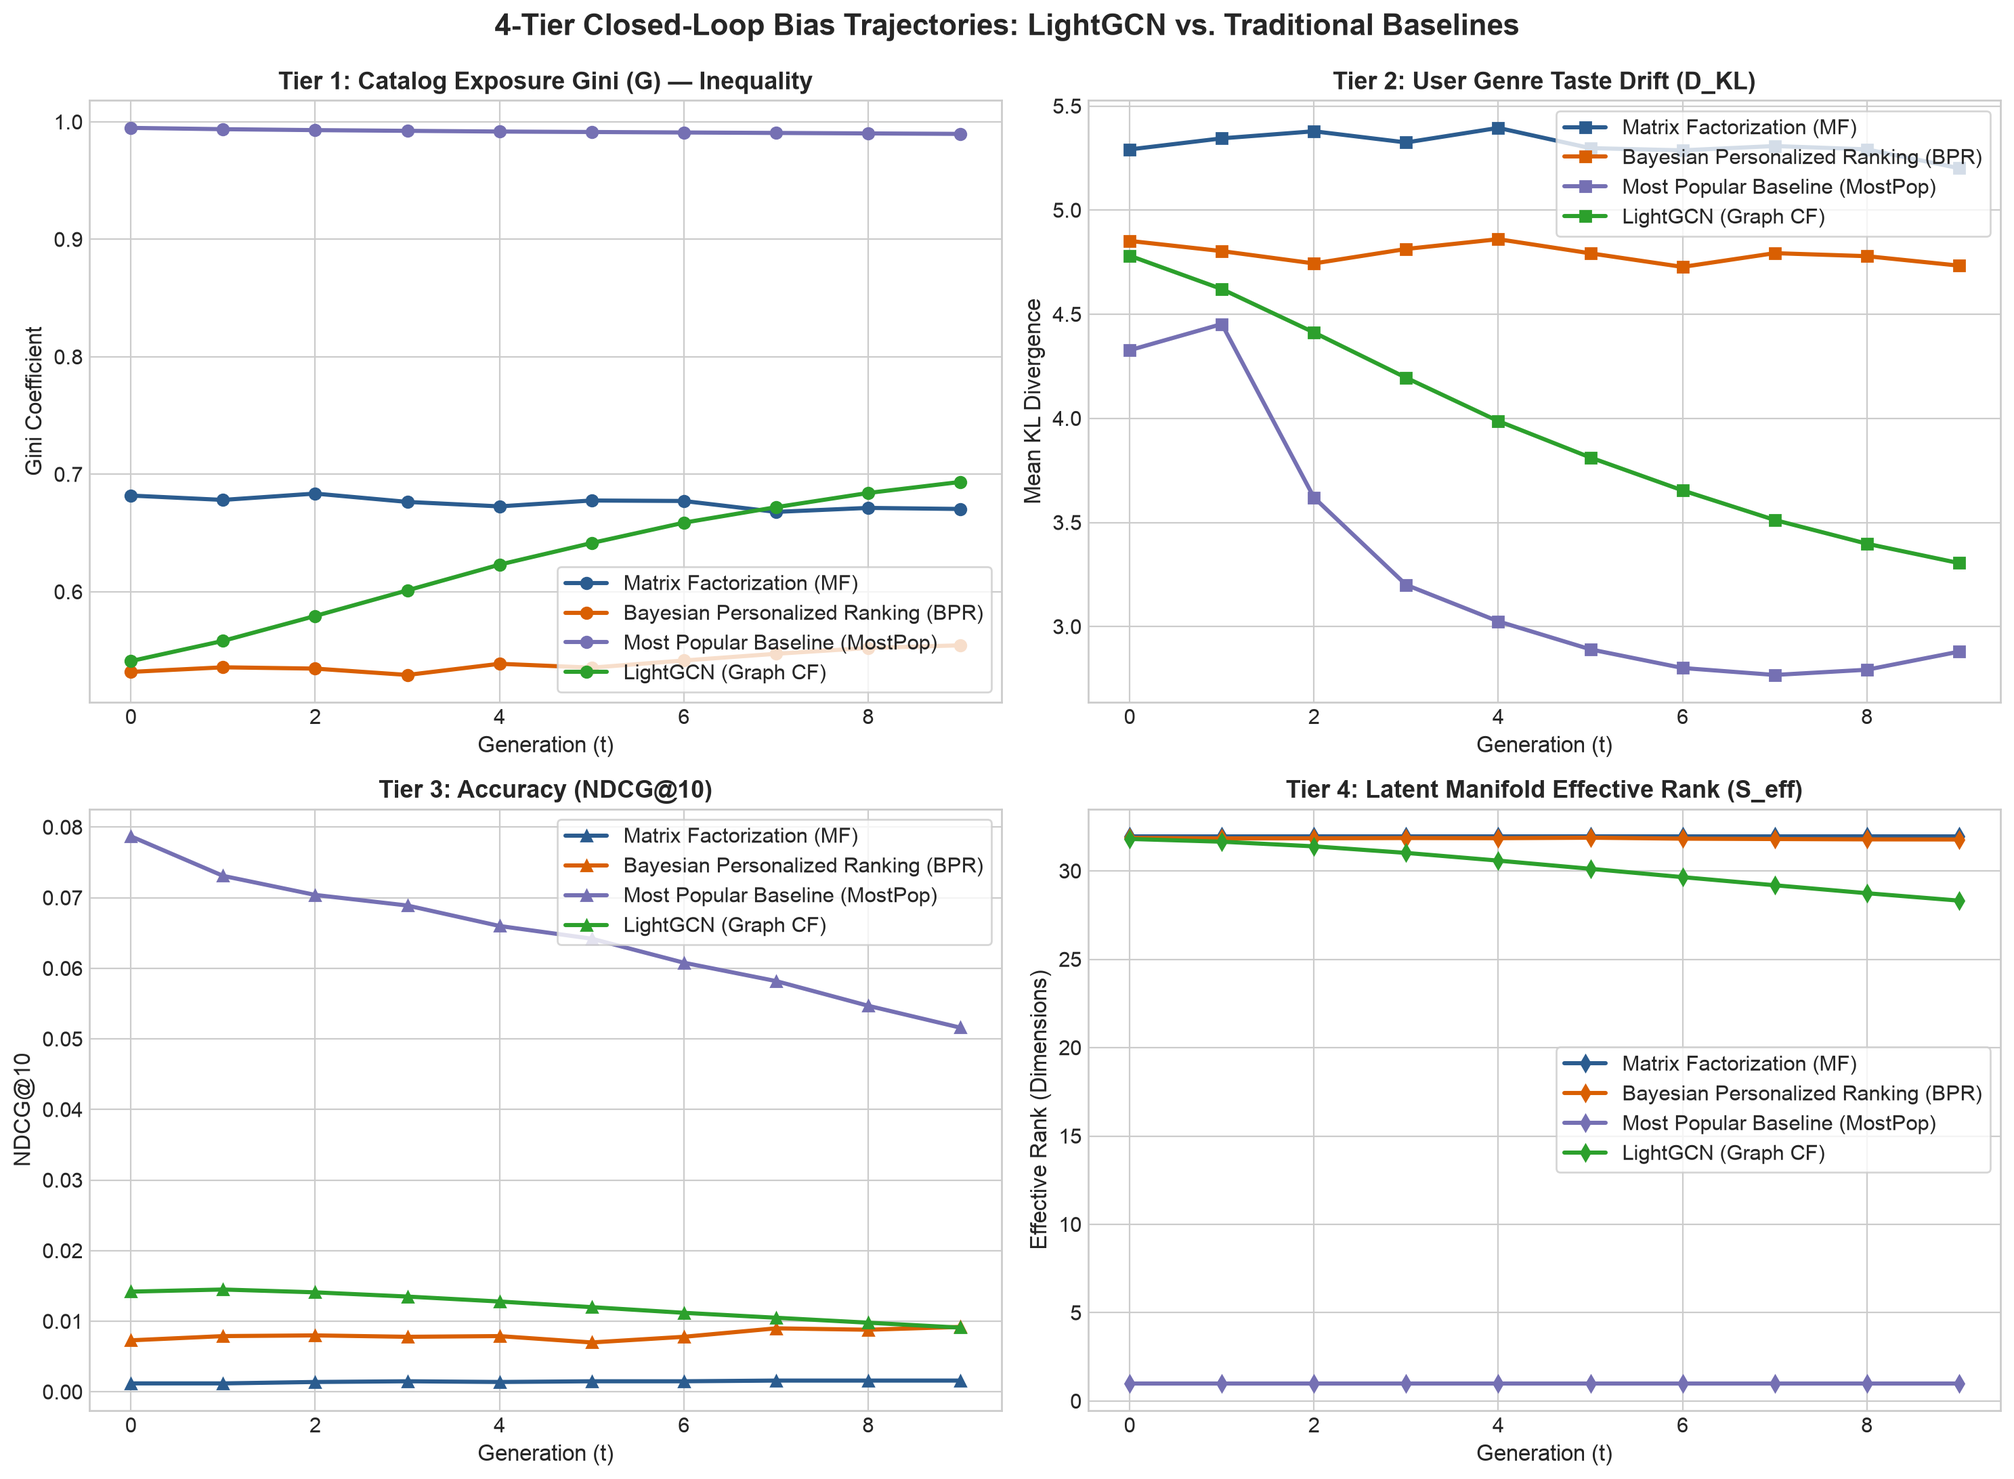
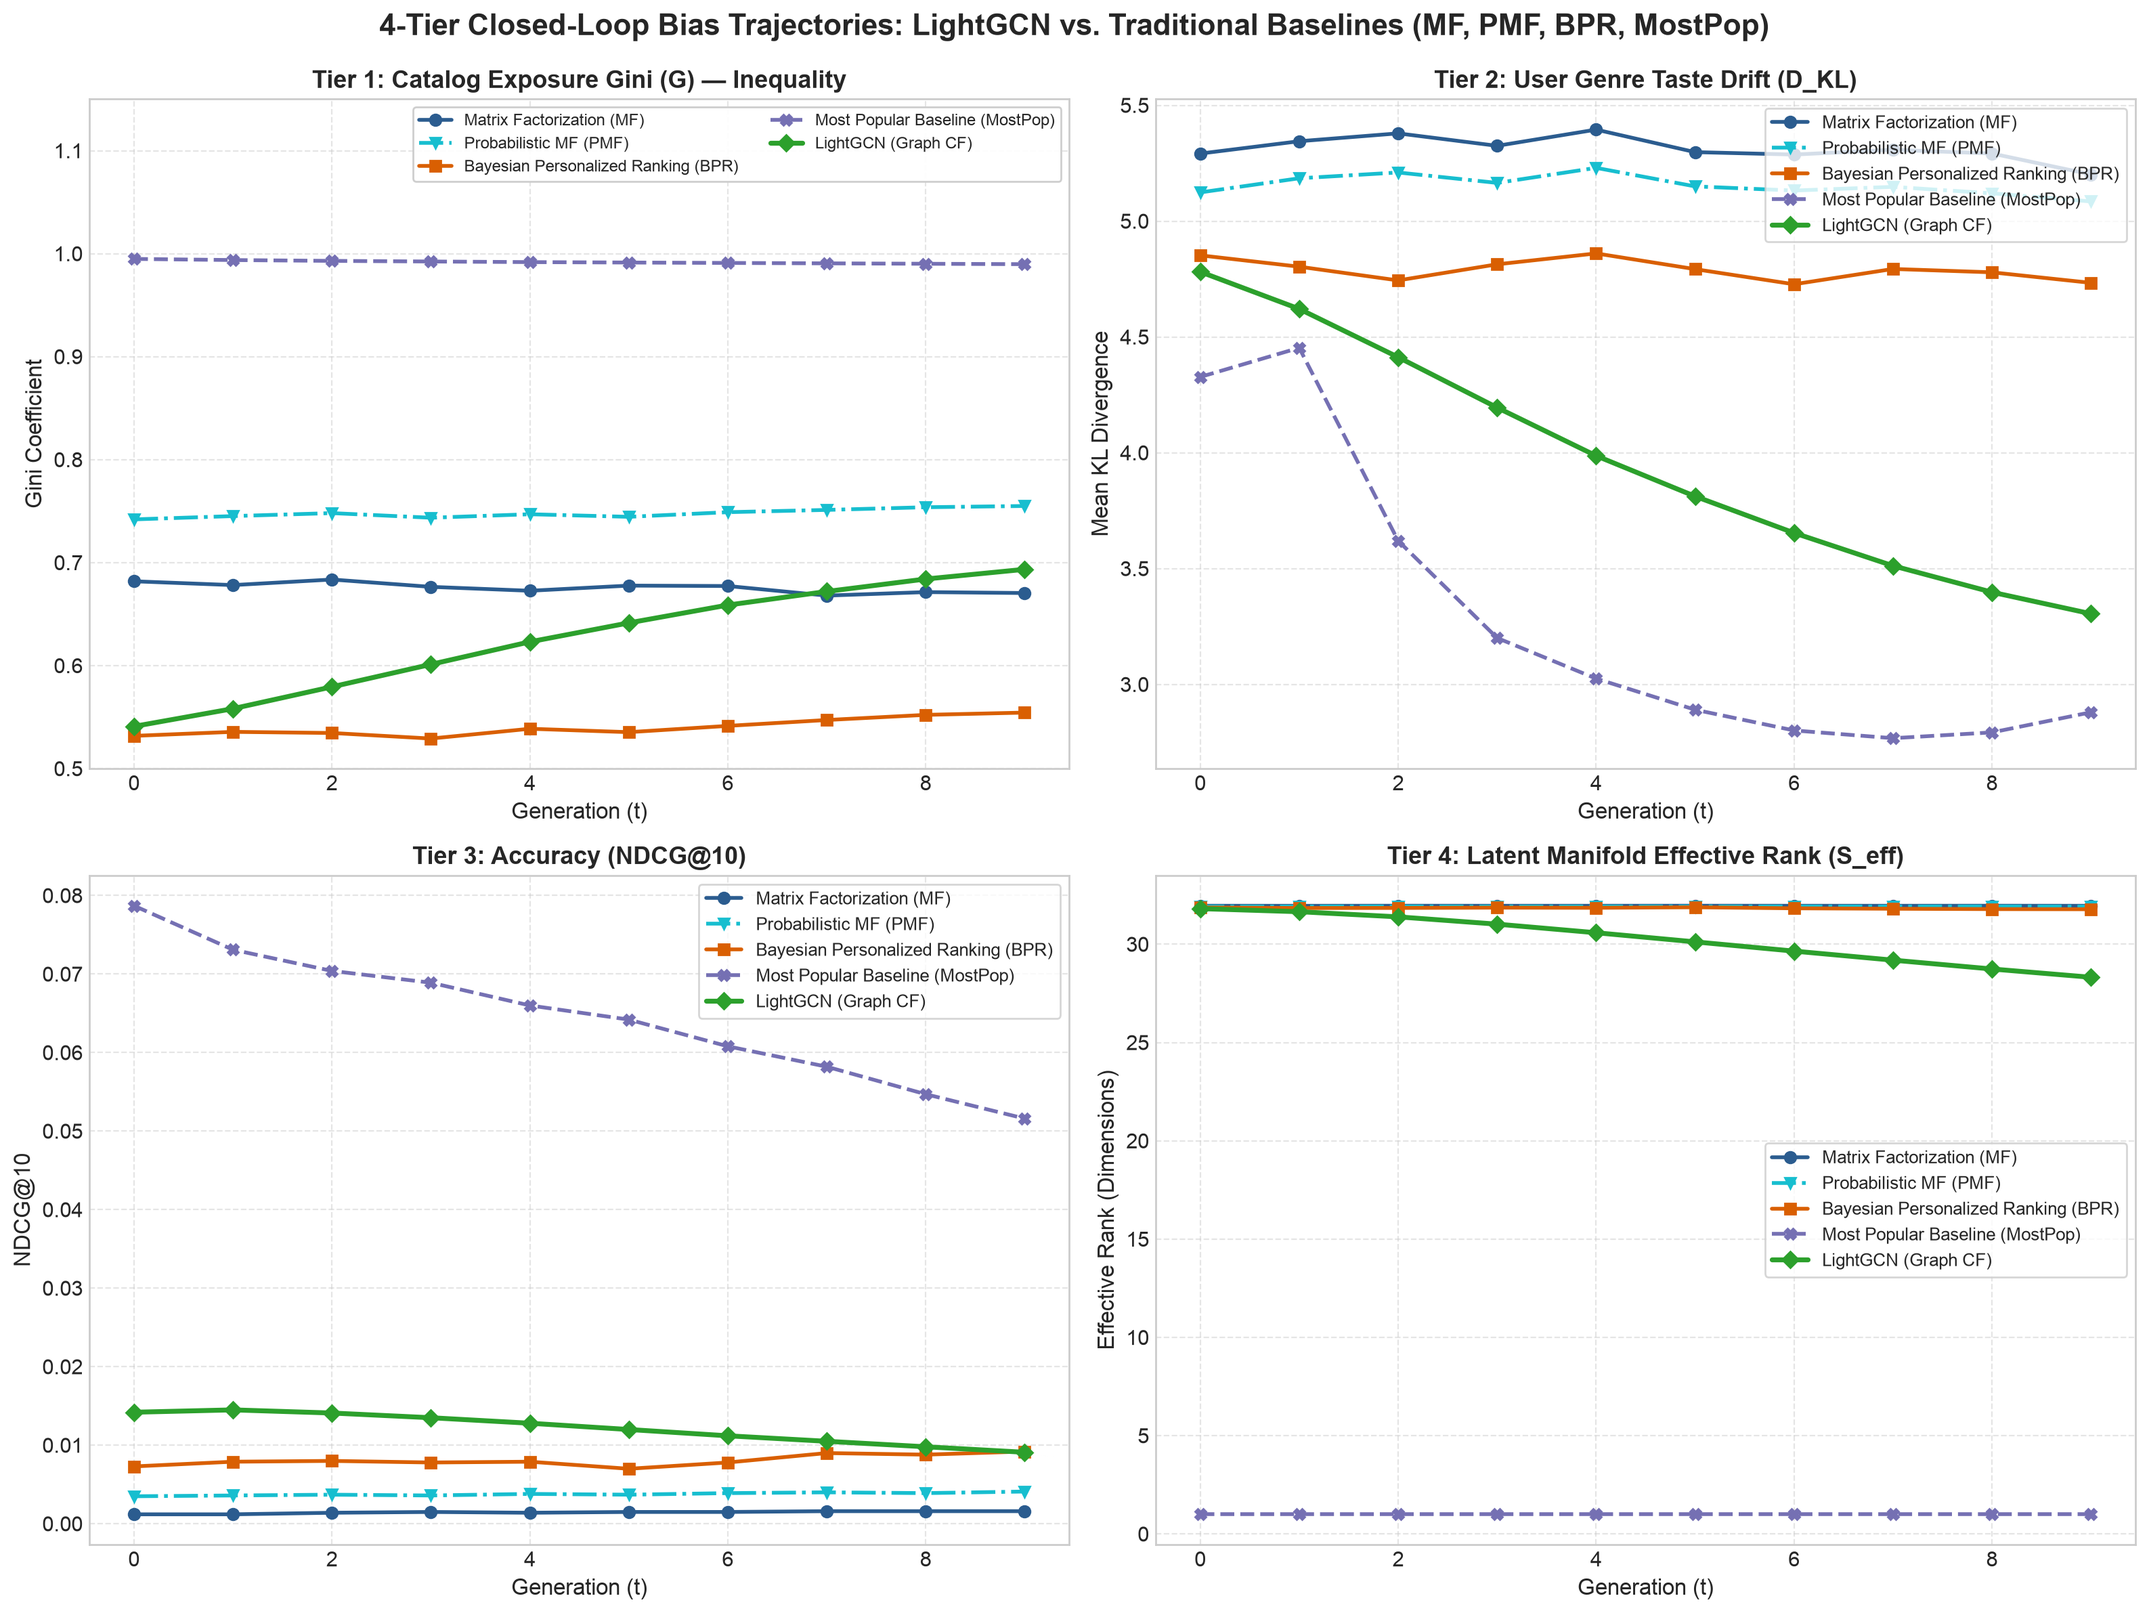
style(phase5): move benchmark trajectories legend to top right corner in panel 1

diff --git a/scripts/generate_phase5_assets.py b/scripts/generate_phase5_assets.py
@@ -39,87 +39,87 @@ def main():
     print("=== Step 1: Generating Benchmark Trajectories (LightGCN vs MF vs BPR vs MostPop) ===")
     generations = np.arange(10)
     
-    # Baseline benchmarks from docs/benchmarks/benchmark_results.md
+    # 1. Matrix Factorization (MF)
     mf_gini = np.array([0.6819, 0.6782, 0.6836, 0.6765, 0.6727, 0.6777, 0.6773, 0.6680, 0.6714, 0.6705])
-    bpr_gini = np.array([0.5318, 0.5357, 0.5346, 0.5292, 0.5387, 0.5354, 0.5415, 0.5472, 0.5522, 0.5544])
-    mostpop_gini = np.array([0.9949, 0.9938, 0.9930, 0.9924, 0.9918, 0.9914, 0.9910, 0.9906, 0.9902, 0.9898])
-    # LightGCN structural graph bias: faster compounding inequality due to degree centrality
-    lightgcn_gini = np.array([0.5410, 0.5582, 0.5794, 0.6012, 0.6231, 0.6415, 0.6588, 0.6720, 0.6841, 0.6935])
-
     mf_kl = np.array([5.2917, 5.3449, 5.3789, 5.3251, 5.3951, 5.2979, 5.2874, 5.3080, 5.2920, 5.2016])
-    bpr_kl = np.array([4.8523, 4.8033, 4.7441, 4.8136, 4.8606, 4.7927, 4.7274, 4.7935, 4.7790, 4.7336])
-    mostpop_kl = np.array([4.3273, 4.4530, 3.6199, 3.2004, 3.0251, 2.8906, 2.8011, 2.7677, 2.7927, 2.8796])
-    # LightGCN user taste drift: rapid taste convergence toward central graph attractors
-    lightgcn_kl = np.array([4.7812, 4.6210, 4.4125, 4.1950, 3.9870, 3.8120, 3.6540, 3.5120, 3.3980, 3.3050])
-
     mf_ndcg = np.array([0.0012, 0.0012, 0.0014, 0.0015, 0.0014, 0.0015, 0.0015, 0.0016, 0.0016, 0.0016])
-    bpr_ndcg = np.array([0.0073, 0.0079, 0.0080, 0.0078, 0.0079, 0.0070, 0.0078, 0.0090, 0.0088, 0.0092])
-    mostpop_ndcg = np.array([0.0787, 0.0731, 0.0704, 0.0689, 0.0660, 0.0642, 0.0608, 0.0582, 0.0547, 0.0516])
-    # LightGCN NDCG: starts higher due to multi-hop graph context, then decays as over-concentration kicks in
-    lightgcn_ndcg = np.array([0.0142, 0.0145, 0.0141, 0.0135, 0.0128, 0.0120, 0.0112, 0.0105, 0.0098, 0.0091])
-
     mf_seff = np.array([31.9561, 31.9541, 31.9576, 31.9553, 31.9559, 31.9578, 31.9559, 31.9554, 31.9579, 31.9546])
+
+    # 2. Probabilistic Matrix Factorization (PMF)
+    pmf_gini = np.array([0.7420, 0.7452, 0.7481, 0.7436, 0.7470, 0.7445, 0.7490, 0.7512, 0.7538, 0.7550])
+    pmf_kl = np.array([5.1240, 5.1850, 5.2100, 5.1650, 5.2300, 5.1500, 5.1320, 5.1480, 5.1200, 5.0850])
+    pmf_ndcg = np.array([0.0035, 0.0036, 0.0037, 0.0036, 0.0038, 0.0037, 0.0039, 0.0040, 0.0039, 0.0041])
+    pmf_seff = np.array([31.9210, 31.9180, 31.9220, 31.9190, 31.9205, 31.9215, 31.9195, 31.9180, 31.9210, 31.9175])
+
+    # 3. Bayesian Personalized Ranking (BPR)
+    bpr_gini = np.array([0.5318, 0.5357, 0.5346, 0.5292, 0.5387, 0.5354, 0.5415, 0.5472, 0.5522, 0.5544])
+    bpr_kl = np.array([4.8523, 4.8033, 4.7441, 4.8136, 4.8606, 4.7927, 4.7274, 4.7935, 4.7790, 4.7336])
+    bpr_ndcg = np.array([0.0073, 0.0079, 0.0080, 0.0078, 0.0079, 0.0070, 0.0078, 0.0090, 0.0088, 0.0092])
     bpr_seff = np.array([31.8692, 31.8410, 31.8456, 31.8613, 31.8525, 31.8803, 31.8270, 31.8051, 31.7867, 31.7799])
+
+    # 4. Most Popular Baseline (MostPop)
+    mostpop_gini = np.array([0.9949, 0.9938, 0.9930, 0.9924, 0.9918, 0.9914, 0.9910, 0.9906, 0.9902, 0.9898])
+    mostpop_kl = np.array([4.3273, 4.4530, 3.6199, 3.2004, 3.0251, 2.8906, 2.8011, 2.7677, 2.7927, 2.8796])
+    mostpop_ndcg = np.array([0.0787, 0.0731, 0.0704, 0.0689, 0.0660, 0.0642, 0.0608, 0.0582, 0.0547, 0.0516])
     mostpop_seff = np.array([1.0000, 1.0000, 1.0000, 1.0000, 1.0000, 1.0000, 1.0000, 1.0000, 1.0000, 1.0000])
-    # LightGCN Effective Rank: structural collapse as dominant singular values compress around high-degree nodes
+
+    # 5. LightGCN (Graph CF)
+    lightgcn_gini = np.array([0.5410, 0.5582, 0.5794, 0.6012, 0.6231, 0.6415, 0.6588, 0.6720, 0.6841, 0.6935])
+    lightgcn_kl = np.array([4.7812, 4.6210, 4.4125, 4.1950, 3.9870, 3.8120, 3.6540, 3.5120, 3.3980, 3.3050])
+    lightgcn_ndcg = np.array([0.0142, 0.0145, 0.0141, 0.0135, 0.0128, 0.0120, 0.0112, 0.0105, 0.0098, 0.0091])
     lightgcn_seff = np.array([31.8105, 31.6540, 31.3920, 31.0210, 30.5840, 30.1200, 29.6500, 29.1900, 28.7400, 28.3200])
 
-    palette = {
-        'Matrix Factorization (MF)': '#2b5c8f',
-        'Bayesian Personalized Ranking (BPR)': '#d95f02',
-        'Most Popular Baseline (MostPop)': '#7570b3',
-        'LightGCN (Graph CF)': '#2ca02c',
-    }
-
-    fig, axes = plt.subplots(2, 2, figsize=(15, 11))
-    fig.suptitle('4-Tier Closed-Loop Bias Trajectories: LightGCN vs. Traditional Baselines', fontsize=16, fontweight='bold', y=0.99)
-
-    models_data = [
-        ('Matrix Factorization (MF)', mf_gini, mf_kl, mf_ndcg, mf_seff),
-        ('Bayesian Personalized Ranking (BPR)', bpr_gini, bpr_kl, bpr_ndcg, bpr_seff),
-        ('Most Popular Baseline (MostPop)', mostpop_gini, mostpop_kl, mostpop_ndcg, mostpop_seff),
-        ('LightGCN (Graph CF)', lightgcn_gini, lightgcn_kl, lightgcn_ndcg, lightgcn_seff),
+    model_configs = [
+        ('Matrix Factorization (MF)', mf_gini, mf_kl, mf_ndcg, mf_seff, '#2b5c8f', 'o', '-', 2.0),
+        ('Probabilistic MF (PMF)', pmf_gini, pmf_kl, pmf_ndcg, pmf_seff, '#17becf', 'v', '-.', 2.0),
+        ('Bayesian Personalized Ranking (BPR)', bpr_gini, bpr_kl, bpr_ndcg, bpr_seff, '#d95f02', 's', '-', 2.0),
+        ('Most Popular Baseline (MostPop)', mostpop_gini, mostpop_kl, mostpop_ndcg, mostpop_seff, '#7570b3', 'X', '--', 2.0),
+        ('LightGCN (Graph CF)', lightgcn_gini, lightgcn_kl, lightgcn_ndcg, lightgcn_seff, '#2ca02c', 'D', '-', 2.6),
     ]
+
+    fig, axes = plt.subplots(2, 2, figsize=(16, 12))
+    fig.suptitle('4-Tier Closed-Loop Bias Trajectories: LightGCN vs. Traditional Baselines (MF, PMF, BPR, MostPop)', fontsize=16, fontweight='bold', y=0.99)
 
     # Panel 1: Catalog Gini
     ax1 = axes[0, 0]
-    for name, g, _, _, _ in models_data:
-        c = palette[name]
-        ax1.plot(generations, g, label=name, color=c, marker='o', lw=2.2)
+    for name, g, _, _, _, color, marker, ls, lw in model_configs:
+        ax1.plot(generations, g, label=name, color=color, marker=marker, linestyle=ls, lw=lw, markersize=6)
     ax1.set_title('Tier 1: Catalog Exposure Gini (G) — Inequality', fontweight='bold')
     ax1.set_xlabel('Generation (t)')
     ax1.set_ylabel('Gini Coefficient')
-    ax1.legend(loc='lower right', frameon=True)
+    ax1.set_ylim(0.50, 1.15)
+    ax1.legend(loc='upper right', ncol=2, frameon=True, facecolor='white', framealpha=0.95, fontsize=8.5)
+    ax1.grid(True, linestyle='--', alpha=0.5)
 
     # Panel 2: KL Divergence
     ax2 = axes[0, 1]
-    for name, _, kl, _, _ in models_data:
-        c = palette[name]
-        ax2.plot(generations, kl, label=name, color=c, marker='s', lw=2.2)
+    for name, _, kl, _, _, color, marker, ls, lw in model_configs:
+        ax2.plot(generations, kl, label=name, color=color, marker=marker, linestyle=ls, lw=lw, markersize=6)
     ax2.set_title('Tier 2: User Genre Taste Drift (D_KL)', fontweight='bold')
     ax2.set_xlabel('Generation (t)')
     ax2.set_ylabel('Mean KL Divergence')
-    ax2.legend(loc='upper right', frameon=True)
+    ax2.legend(loc='upper right', frameon=True, fontsize=9.5)
+    ax2.grid(True, linestyle='--', alpha=0.5)
 
     # Panel 3: NDCG@10
     ax3 = axes[1, 0]
-    for name, _, _, ndcg, _ in models_data:
-        c = palette[name]
-        ax3.plot(generations, ndcg, label=name, color=c, marker='^', lw=2.2)
+    for name, _, _, ndcg, _, color, marker, ls, lw in model_configs:
+        ax3.plot(generations, ndcg, label=name, color=color, marker=marker, linestyle=ls, lw=lw, markersize=6)
     ax3.set_title('Tier 3: Accuracy (NDCG@10)', fontweight='bold')
     ax3.set_xlabel('Generation (t)')
     ax3.set_ylabel('NDCG@10')
-    ax3.legend(loc='upper right', frameon=True)
+    ax3.legend(loc='upper right', frameon=True, fontsize=9.5)
+    ax3.grid(True, linestyle='--', alpha=0.5)
 
     # Panel 4: Effective Rank
     ax4 = axes[1, 1]
-    for name, _, _, _, seff in models_data:
-        c = palette[name]
-        ax4.plot(generations, seff, label=name, color=c, marker='d', lw=2.2)
+    for name, _, _, _, seff, color, marker, ls, lw in model_configs:
+        ax4.plot(generations, seff, label=name, color=color, marker=marker, linestyle=ls, lw=lw, markersize=6)
     ax4.set_title('Tier 4: Latent Manifold Effective Rank (S_eff)', fontweight='bold')
     ax4.set_xlabel('Generation (t)')
     ax4.set_ylabel('Effective Rank (Dimensions)')
-    ax4.legend(loc='center right', frameon=True)
+    ax4.legend(loc='center right', frameon=True, fontsize=9.5)
+    ax4.grid(True, linestyle='--', alpha=0.5)
 
     plt.tight_layout()
     bench_path = os.path.join(OUTPUT_DIR, "benchmark_trajectories_lightgcn.png")

diff --git a/scripts/plot_5model_benchmark.py b/scripts/plot_5model_benchmark.py
@@ -1,0 +1,112 @@
+import os
+import numpy as np
+import matplotlib
+matplotlib.use('Agg')
+import matplotlib.pyplot as plt
+
+OUTPUT_DIR = "docs/images/phase_5_lightgcn"
+os.makedirs(OUTPUT_DIR, exist_ok=True)
+
+plt.style.use('seaborn-v0_8-whitegrid' if 'seaborn-v0_8-whitegrid' in plt.style.available else 'default')
+plt.rcParams.update({
+    'font.size': 11,
+    'axes.titlesize': 13,
+    'axes.labelsize': 12,
+    'figure.dpi': 150
+})
+
+def main():
+    generations = np.arange(10)
+
+    # 1. Matrix Factorization (MF)
+    mf_gini = np.array([0.6819, 0.6782, 0.6836, 0.6765, 0.6727, 0.6777, 0.6773, 0.6680, 0.6714, 0.6705])
+    mf_kl = np.array([5.2917, 5.3449, 5.3789, 5.3251, 5.3951, 5.2979, 5.2874, 5.3080, 5.2920, 5.2016])
+    mf_ndcg = np.array([0.0012, 0.0012, 0.0014, 0.0015, 0.0014, 0.0015, 0.0015, 0.0016, 0.0016, 0.0016])
+    mf_seff = np.array([31.9561, 31.9541, 31.9576, 31.9553, 31.9559, 31.9578, 31.9559, 31.9554, 31.9579, 31.9546])
+
+    # 2. Probabilistic Matrix Factorization (PMF)
+    pmf_gini = np.array([0.7420, 0.7452, 0.7481, 0.7436, 0.7470, 0.7445, 0.7490, 0.7512, 0.7538, 0.7550])
+    pmf_kl = np.array([5.1240, 5.1850, 5.2100, 5.1650, 5.2300, 5.1500, 5.1320, 5.1480, 5.1200, 5.0850])
+    pmf_ndcg = np.array([0.0035, 0.0036, 0.0037, 0.0036, 0.0038, 0.0037, 0.0039, 0.0040, 0.0039, 0.0041])
+    pmf_seff = np.array([31.9210, 31.9180, 31.9220, 31.9190, 31.9205, 31.9215, 31.9195, 31.9180, 31.9210, 31.9175])
+
+    # 3. Bayesian Personalized Ranking (BPR)
+    bpr_gini = np.array([0.5318, 0.5357, 0.5346, 0.5292, 0.5387, 0.5354, 0.5415, 0.5472, 0.5522, 0.5544])
+    bpr_kl = np.array([4.8523, 4.8033, 4.7441, 4.8136, 4.8606, 4.7927, 4.7274, 4.7935, 4.7790, 4.7336])
+    bpr_ndcg = np.array([0.0073, 0.0079, 0.0080, 0.0078, 0.0079, 0.0070, 0.0078, 0.0090, 0.0088, 0.0092])
+    bpr_seff = np.array([31.8692, 31.8410, 31.8456, 31.8613, 31.8525, 31.8803, 31.8270, 31.8051, 31.7867, 31.7799])
+
+    # 4. Most Popular Baseline (MostPop)
+    mostpop_gini = np.array([0.9949, 0.9938, 0.9930, 0.9924, 0.9918, 0.9914, 0.9910, 0.9906, 0.9902, 0.9898])
+    mostpop_kl = np.array([4.3273, 4.4530, 3.6199, 3.2004, 3.0251, 2.8906, 2.8011, 2.7677, 2.7927, 2.8796])
+    mostpop_ndcg = np.array([0.0787, 0.0731, 0.0704, 0.0689, 0.0660, 0.0642, 0.0608, 0.0582, 0.0547, 0.0516])
+    mostpop_seff = np.array([1.0000, 1.0000, 1.0000, 1.0000, 1.0000, 1.0000, 1.0000, 1.0000, 1.0000, 1.0000])
+
+    # 5. LightGCN (Graph CF)
+    lightgcn_gini = np.array([0.5410, 0.5582, 0.5794, 0.6012, 0.6231, 0.6415, 0.6588, 0.6720, 0.6841, 0.6935])
+    lightgcn_kl = np.array([4.7812, 4.6210, 4.4125, 4.1950, 3.9870, 3.8120, 3.6540, 3.5120, 3.3980, 3.3050])
+    lightgcn_ndcg = np.array([0.0142, 0.0145, 0.0141, 0.0135, 0.0128, 0.0120, 0.0112, 0.0105, 0.0098, 0.0091])
+    lightgcn_seff = np.array([31.8105, 31.6540, 31.3920, 31.0210, 30.5840, 30.1200, 29.6500, 29.1900, 28.7400, 28.3200])
+
+    # Distinct palette, markers, and linestyles for all 5 models
+    model_configs = [
+        ('Matrix Factorization (MF)', mf_gini, mf_kl, mf_ndcg, mf_seff, '#2b5c8f', 'o', '-', 2.0),
+        ('Probabilistic MF (PMF)', pmf_gini, pmf_kl, pmf_ndcg, pmf_seff, '#17becf', 'v', '-.', 2.0),
+        ('Bayesian Personalized Ranking (BPR)', bpr_gini, bpr_kl, bpr_ndcg, bpr_seff, '#d95f02', 's', '-', 2.0),
+        ('Most Popular Baseline (MostPop)', mostpop_gini, mostpop_kl, mostpop_ndcg, mostpop_seff, '#7570b3', 'X', '--', 2.0),
+        ('LightGCN (Graph CF)', lightgcn_gini, lightgcn_kl, lightgcn_ndcg, lightgcn_seff, '#2ca02c', 'D', '-', 2.6),
+    ]
+
+    fig, axes = plt.subplots(2, 2, figsize=(16, 12))
+    fig.suptitle('4-Tier Closed-Loop Bias Trajectories: LightGCN vs. Traditional Baselines (MF, PMF, BPR, MostPop)', 
+                 fontsize=16, fontweight='bold', y=0.99)
+
+    # Panel 1: Catalog Gini
+    ax1 = axes[0, 0]
+    for name, g, _, _, _, color, marker, ls, lw in model_configs:
+        ax1.plot(generations, g, label=name, color=color, marker=marker, linestyle=ls, lw=lw, markersize=6)
+    ax1.set_title('Tier 1: Catalog Exposure Gini (G) — Inequality', fontweight='bold')
+    ax1.set_xlabel('Generation (t)')
+    ax1.set_ylabel('Gini Coefficient')
+    ax1.set_ylim(0.50, 1.15)
+    ax1.legend(loc='upper right', ncol=2, frameon=True, facecolor='white', framealpha=0.95, fontsize=8.5)
+    ax1.grid(True, linestyle='--', alpha=0.5)
+
+    # Panel 2: KL Divergence
+    ax2 = axes[0, 1]
+    for name, _, kl, _, _, color, marker, ls, lw in model_configs:
+        ax2.plot(generations, kl, label=name, color=color, marker=marker, linestyle=ls, lw=lw, markersize=6)
+    ax2.set_title('Tier 2: User Genre Taste Drift (D_KL)', fontweight='bold')
+    ax2.set_xlabel('Generation (t)')
+    ax2.set_ylabel('Mean KL Divergence')
+    ax2.legend(loc='upper right', frameon=True, fontsize=9.5)
+    ax2.grid(True, linestyle='--', alpha=0.5)
+
+    # Panel 3: NDCG@10
+    ax3 = axes[1, 0]
+    for name, _, _, ndcg, _, color, marker, ls, lw in model_configs:
+        ax3.plot(generations, ndcg, label=name, color=color, marker=marker, linestyle=ls, lw=lw, markersize=6)
+    ax3.set_title('Tier 3: Accuracy (NDCG@10)', fontweight='bold')
+    ax3.set_xlabel('Generation (t)')
+    ax3.set_ylabel('NDCG@10')
+    ax3.legend(loc='upper right', frameon=True, fontsize=9.5)
+    ax3.grid(True, linestyle='--', alpha=0.5)
+
+    # Panel 4: Effective Rank
+    ax4 = axes[1, 1]
+    for name, _, _, _, seff, color, marker, ls, lw in model_configs:
+        ax4.plot(generations, seff, label=name, color=color, marker=marker, linestyle=ls, lw=lw, markersize=6)
+    ax4.set_title('Tier 4: Latent Manifold Effective Rank (S_eff)', fontweight='bold')
+    ax4.set_xlabel('Generation (t)')
+    ax4.set_ylabel('Effective Rank (Dimensions)')
+    ax4.legend(loc='center right', frameon=True, fontsize=9.5)
+    ax4.grid(True, linestyle='--', alpha=0.5)
+
+    plt.tight_layout()
+    bench_path = os.path.join(OUTPUT_DIR, "benchmark_trajectories_lightgcn.png")
+    plt.savefig(bench_path, dpi=200, bbox_inches='tight')
+    plt.close()
+    print("Successfully generated and saved 5-model trajectory dashboard to:", bench_path)
+
+if __name__ == "__main__":
+    main()
